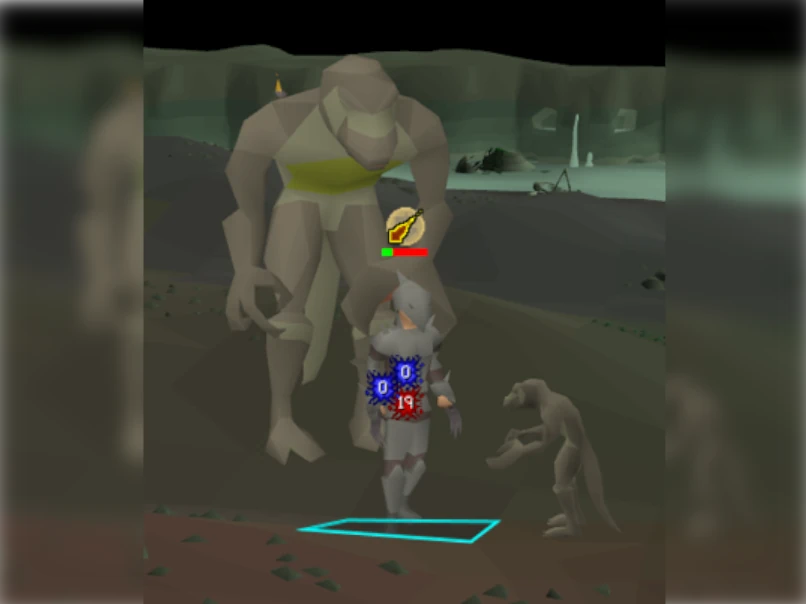
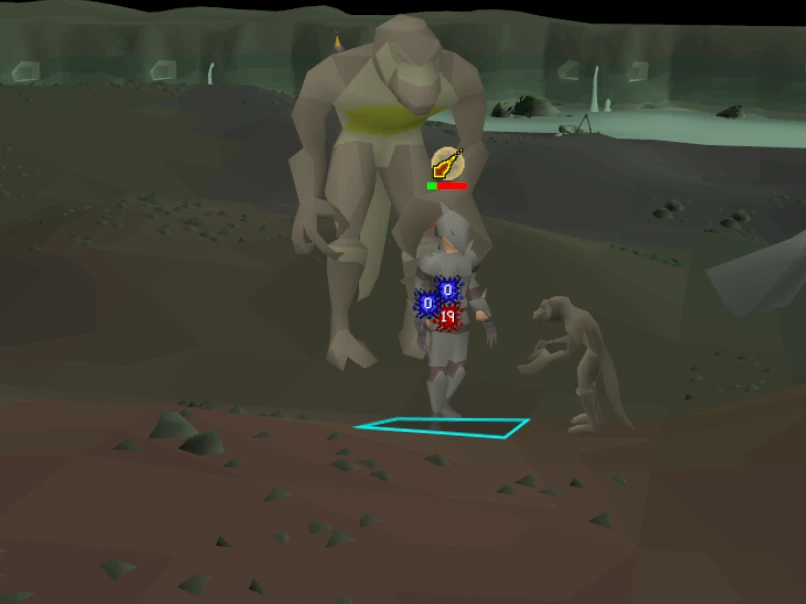
Arma and Mathrotus Bio Pics
Uploaded Placed

Also, some cleanup of style.css

diff --git a/style.css b/style.css
@@ -629,159 +629,7 @@ CLAN STAFF SECTION
     background-color: hsla(277, 96%, 31%, 1);
 }
 
-.clan-staff {
-    grid-row: 3 / 4;
-    grid-column: 1 / 4;
-    display: grid;
-    grid-template-rows: 50px 30px 50px auto 30px 50px auto 30px 50px auto;
-    /*Title space leaderTitle leader space adminTitle admins space modTitle mods space eventHostTitle eventHosts*/
-    grid-template-columns: 1fr 50px 200px 50px 1fr;
-    background-color: hsla(277, 96%, 31%, 1);
-    text-align: center;
-    font-family: 'Sarabun' , sans-serif;
-}
 
-.clan-staff-title {
-    grid-row: 1 / 2;
-    grid-column: 2 / 5;
-    font-size: 3em;
-    margin: auto;
-}
-
-.staff-text {
-    font-size: 1.2em;
-    margin: auto;
-    line-height: 1.3em;
-}
-
-.staff-titles {
-    letter-spacing: 2px;
-    text-decoration: underline;
-}
-
-/*LEADER*/
-.leader-image-left {
-    grid-row: 3 / 4;
-    grid-column: 2 / 3;
-    background-image: url(Assets/role-icons/ClanStaffRankSprite.webp);
-    background-size: cover;
-    background-position-y: 5px;
-    background-repeat: no-repeat;
-}
-
-.leader-image-right {
-    grid-row: 3 / 4;
-    grid-column: 4 / 5;
-    background-image: url(Assets/role-icons/ClanStaffRankSprite.webp);
-    background-size: cover;
-    background-position-y: 5px;
-    background-repeat: no-repeat;
-}
-
-.leader-title {
-    grid-row: 3 / 4;
-    grid-column: 3 / 4;
-    font-size: 2em;
-    margin: auto;
-}
-
-.leader-text {
-    grid-row: 4 / 5;
-    grid-column: 1 / 6;
-}
-
-/*ADMIN*/
-.admin-image-left {
-    grid-row: 6 / 7;
-    grid-column: 2 / 3;
-    background-image: url(Assets/role-icons/ClanStaffRankSprite.webp);
-    background-size: cover;
-    background-position-y: -45px;
-    background-repeat: no-repeat;
-}
-
-.admin-image-right {
-    grid-row: 6 / 7;
-    grid-column: 4 / 5;
-    background-image: url(Assets/role-icons/ClanStaffRankSprite.webp);
-    background-size: cover;
-    background-position-y: -45px;
-    background-repeat: no-repeat;
-}
-
-.admin-title {
-    grid-row: 6 / 7;
-    grid-column: 3 / 4;
-    font-size: 2em;
-    margin: auto;
-}
-
-.admin-text {
-    grid-row: 7 / 8;
-    grid-column: 1 / 6;
-}
-
-/*MOD*/
-.mod-image-left {
-    grid-row: 9 / 10;
-    grid-column: 2 / 3;
-    background-image: url(Assets/role-icons/ClanStaffRankSprite.webp);
-    background-size: cover;
-    background-position-y: -100px;
-    background-repeat: no-repeat;
-}
-
-.mod-image-right {
-    grid-row: 9 / 10;
-    grid-column: 4 / 5;
-    background-image: url(Assets/role-icons/ClanStaffRankSprite.webp);
-    background-size: cover;
-    background-position-y: -100px;
-    background-repeat: no-repeat;
-}
-
-.mod-title {
-    grid-row: 9 / 10;
-    grid-column: 3 / 4;
-    font-size: 2em;
-    margin: auto;
-}
-
-.mod-text {
-    grid-row: 10 / 11;
-    grid-column: 1 / 6;
-}
-
-/*EVENT HOSTS*/
-/* .event-host-image-left {
-    grid-row: 12 / 13;
-    grid-column: 2 / 3;
-    background-image: url(Assets/role-icons/ClanStaffRankSprite.webp);
-    background-size: cover;
-    background-position-y: -150px;
-    background-repeat: no-repeat;
-}
-
-.event-host-image-right {
-    grid-row: 12 / 13;
-    grid-column: 4 / 5;
-    background-image: url(Assets/role-icons/ClanStaffRankSprite.webp);
-    background-size: cover;
-    background-position-y: -150px;
-    background-repeat: no-repeat;
-}
-
-.event-host-title {
-    grid-row: 12 / 13;
-    grid-column: 3 / 4;
-    font-size: 2em;
-    margin: auto;
-}
-
-.event-host-text {
-    grid-row: 13 / 14;
-    grid-column: 1 / 6;
-} */
 
 
 @media (min-width: 360px) {

diff --git a/about-us.html b/about-us.html
@@ -170,7 +170,7 @@
                     </div>
                 </div>
                 <div class="staff-member"> <!--6-->
-                    <img class="staff-img" src="Assets/BioPics/PlaceHolderBioPic.webp" alt="An osrs player">
+                    <img class="staff-img" src="Assets/BioPics/MathrotusBioPic.webp" alt="An osrs player">
                     <div class="staff-overlay">
                         <p class="staff-name mod-name">Mathrotus</p>
                         <p class="staff-role mod-role">Moderator</p>
